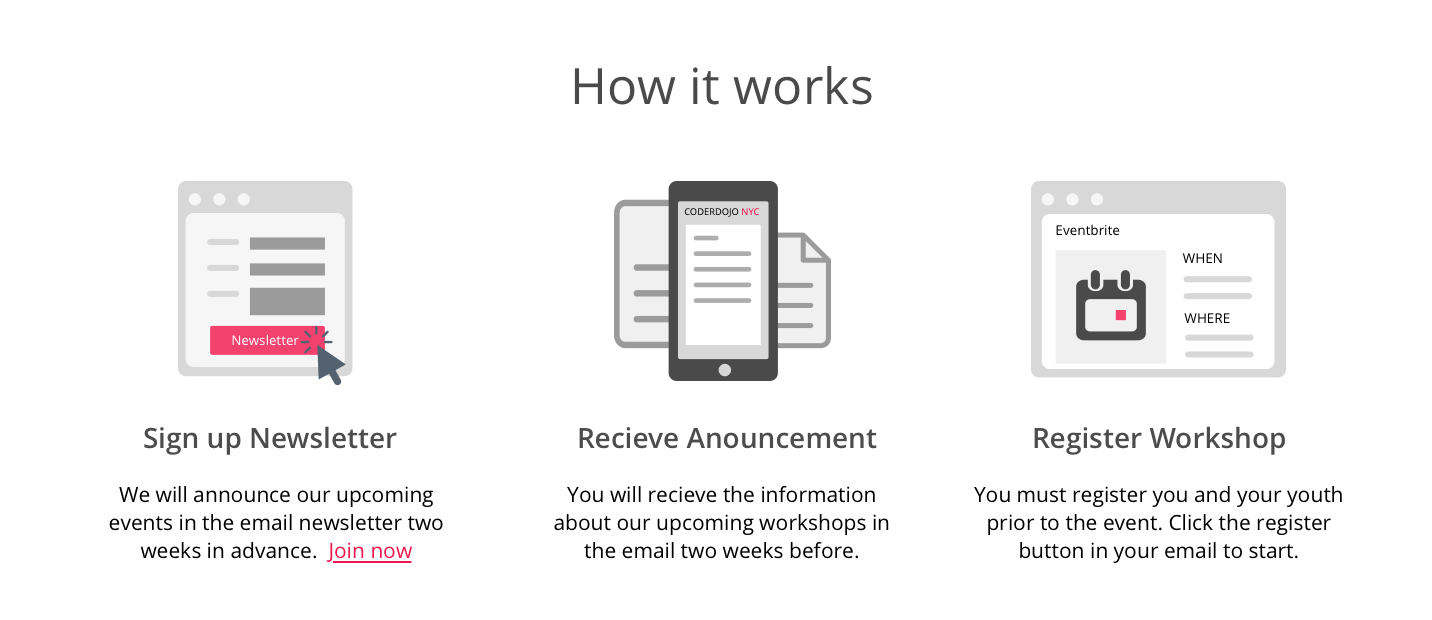
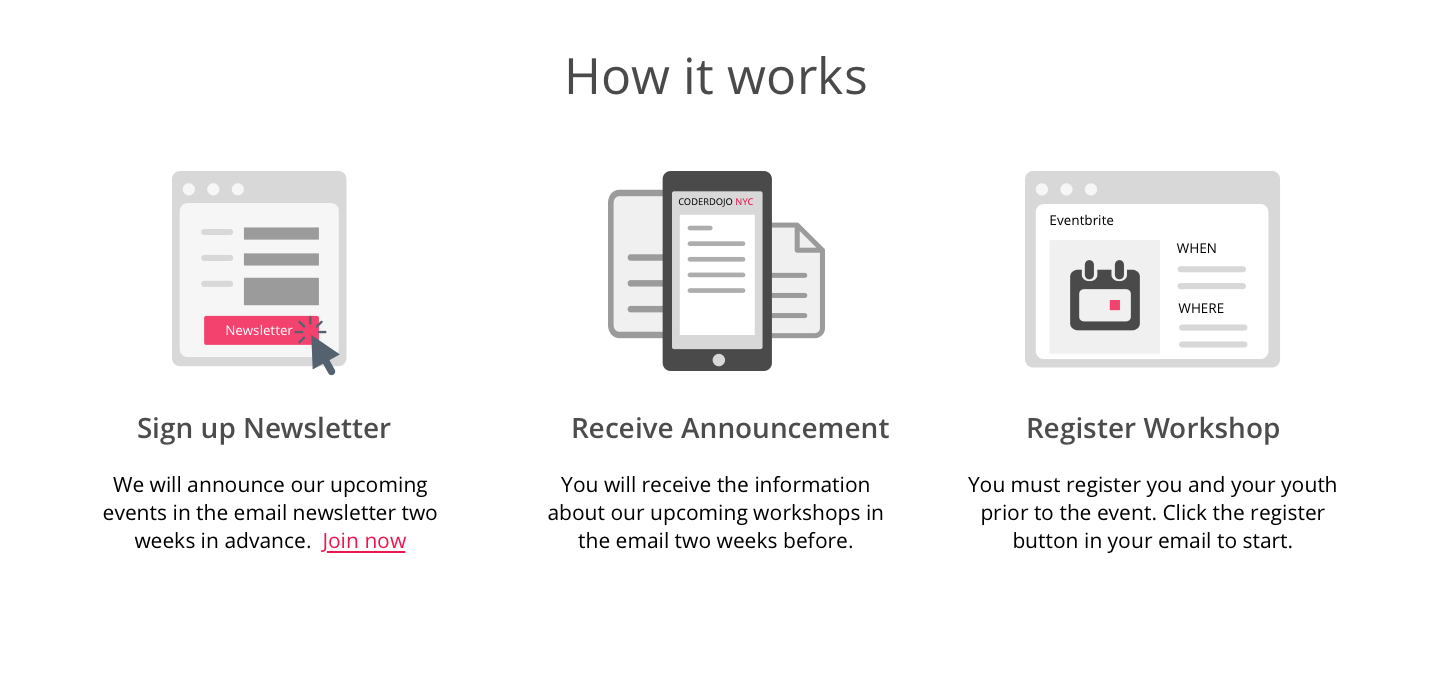
adding more pictures, small tweak in coderdojo

diff --git a/coderdojo.html b/coderdojo.html
@@ -42,7 +42,7 @@
 			<div class="container">
 				<div class="row">
 					<h1> CoderDojo NYC Website Redesign </h1>
-					<p class="desc"> CoderDojo NYC is non-profit organization hosting free Science, Technology, Engineering, Art and Math (STEAM) workshops for youth aged 7-17. I was thrilled, as a volunteer designer, to help them redesign their website. </p>
+					<p class="desc"> CoderDojo NYC is a non-profit organization hosting free Science, Technology, Engineering, Art and Math (STEAM) workshops for youth aged 7-17. I was thrilled, as a volunteer designer, to help them redesign their website. </p>
 
 
 					<div class="block">
@@ -51,7 +51,7 @@
 						
 							<ul>
 								<li>
-									In the original CoderDojo NYC website, the sign-up flow was convoluted and not clearly explained. Parents would spend time searching on the site to figure out how to sign up and then, upon failing, some would sign up as a volunteer and were confused why they were getting emails about volunteering. Confused, parents would then send emails to CoderDojo NYC asking questions or request to sign up for the next workshop. These emails became overwhelming for the organization to response.
+									In the original CoderDojo NYC website, the sign-up flow was convoluted and not clearly explained. Parents would spend time searching on the site to figure out how to sign up. Upon failing, some would sign up as a volunteer and were confused why they were getting emails about volunteering. Confused, parents would then send emails to CoderDojo NYC asking questions or request to sign up for the next workshop. These emails became overwhelming for the organization to respond.
 								</li>							
 								
 							</ul>
@@ -152,7 +152,7 @@
 
 							<div class="row">
 								<h3>Ideation</h3>
-								<p>After buttoned down the Information Architecture, I started sketching and wireframing. I started with quick and messy sketches to generate as many ideas as possible. After I got something I really liked, I started to sketch with more detail. 
+								<p>After buttoning down the Information Architecture, I started sketching and wireframing. I started with quick and messy sketches to generate as many ideas as possible. After I got something I really liked, I started to sketch with more detail. 
 
 								</p>
 								<div class="text-center">
@@ -173,7 +173,7 @@
 								
 								
 							</div>
-							<p>Then I consolidated the feedbacks from my client and finalized the visual design after a few more iterations.
+							<p>Then I consolidated the feedback from my client and finalized the visual design after a few more iterations.
 								</p>
 					</div>
 				</div>
@@ -181,7 +181,7 @@
 			<div class="theme">
 				<div class="container">
 					<div class="row">
-						<h2 class="section-header text-center">Sample Screens</h2>
+						<h2 class="section-header text-center">Final Design</h2>
 						
 						<div class="">
 							<img class="col-sm-6 col-xs-12 img-responsive" src="img/coderdojo/Home.png">
@@ -195,7 +195,7 @@
 					</div>
 				</div>
 			</div>
-			<div class="">
+			<div class="theme">
 				<div class="container">
 					<div class="row">
 						<h2 class="section-header text-center">Sample Illustrations</h2>
@@ -215,14 +215,6 @@
 					<div class="row">
 						<h2 class="section-header text-center">Discussion</h2>
 						<div class="row">
-							<h3>Better illustrated process</h3>
-							<p>I've tried a few different ways to show the process on the website, I ended up using a series of custom-made icons to visualize the steps they would take. Along with text explanation (both titles and microcopies), the process becomes very easy to understand. 
-							</p>
-							<div class="text-center">
-								<img class="img-responsive" src="img/coderdojo/how-it-works.png">
-							</div>
-						</div>	
-						<div class="row">
 							<h3>Page for each targeted user</h3>
 							<p>In the global navigation bar of the new design, I dedicated the first two spots for parents and volunteers. In each page, I've included all the information for each user group in their corresponding page. So once they get to the page, they are able to find everything they need to know.
 							</p>
@@ -230,7 +222,16 @@
 								<img class="img-responsive" src="img/coderdojo/Navbar.png">
 							</div>
 							
-						</div>				
+						</div>		
+						<div class="row">
+							<h3>Better illustrated process</h3>
+							<p>I've tried a few different ways to show the process on the website. I ended up using a series of custom-made icons to visualize the steps they would take. Along with text explanation (both titles and microcopy), the process becomes very easy to understand. 
+							</p>
+							<div class="text-center">
+								<img class="img-responsive" src="img/coderdojo/how-it-works.png">
+							</div>
+						</div>	
+								
 						<div class="row">
 							<h3>Adding FAQs to the Contact Us page</h3>
 							<p> The stakeholders had expressed to me multiple times that people will email and ask the same questions over and over again. I decided to add a list of such questions on top of the contact form. That is, the user needs to go through this list of questions before they can submit a question to the organization. However, I couldn't test and verify this design decision just yet. Once the site is published, we can then monitor the number of emails we got and I can tweak the design if needed.

diff --git a/index.html b/index.html
@@ -53,31 +53,43 @@
       
           <div class="row">
             <div class="col-md-4 col-sm-6 col-xs-12">
-              <div class="preview proj-1">
-                <a href="coderdojo.html"><img src="img/coderdojo.png" class="" alt="CoderDojo Website Redesign"></a>            
-              </div>
+              <ul class="preview proj-1">
+                <li><a href="coderdojo.html"><img src="img/coderdojo.png" class="" alt="CoderDojo Website Redesign"></a> </li>           
+              </ul>
             </div>
 
             <div class="col-md-8 col-sm-6 col-xs-12">
-              <div class="preview proj-2">
-                <a href="dashboard.html"><img src="img/email-dash.png" class="" alt="Email Dashboard"></a>                    
-              </div>  
+              <ul class="preview proj-2">
+                <li><a href="dashboard.html"><img src="img/email-dash.png" class="" alt="Email Dashboard"></a> </li>                  
+              </ul>  
             </div>
           </div>
           
           <div class="row">
-            <div class="col-md-8 col-sm-6 col-xs-12">
-              <div class="preview proj-3">
-                <a href="#">Coming Soon</a> 
-              </div>  
+            <div class="col-md-6 col-sm-6 col-xs-12">
+              <ul class="preview proj-3">
+                <li><a href="#"><img src="img/email-editor-mock.jpg" class="" alt="Email Editor"></a></li>
+              </ul>  
             </div>
 
-            <div class="col-md-4 col-sm-6 col-xs-12">
-              <div class="preview proj-4">
-                <a href="illustration.html"><img src="img/illustration.png" class="" alt="Various Illustrations and Visual Design"></a>       
-              </div>  
+            <div class="col-md-6 col-sm-6 col-xs-12">
+              <ul class="preview proj-4">
+                <li><a href="illustration.html"><img src="img/illustration.png" class="" alt="Various Illustrations and Visual Design"></a></li>      
+              </ul>  
             </div>
           </div>
+          <!-- 
+          <div class="row">
+              <div class="col-md-8 col-sm-6 col-xs-12">
+                <ul class="preview proj-5">
+                  <li><a href="#"><img src="img/dev.png" class="" alt="Email Editor"></a></li>               
+                </ul>  
+              </div>
+              <div class="col-md-4 col-sm-6 col-xs-12">
+                <ul class="preview proj-6">
+                      <li> <a href="#"><img src="img/twinlist-cover.png" class="" alt="List Comparison Visualization"></a></li>
+                </ul>
+              </div>
 
 
 
@@ -87,7 +99,9 @@
               </p>
               <a class="CTA text-center" href="mailto:ranliudesign@gmail.com?subject=I'd like to see your full portfolio">Request My Full Portfolio</a>
             </div>
-
+          -->
+            
+          </div>
 
           </div>
         </div>
@@ -98,10 +112,10 @@
   <div class="about gray">
     <div class="container">
        <h2 class="section-header text-center">About</h2>
-      <div class="text-center col-md-6 col-sm-4 hidden-xs">
+      <div class="text-center col-md-6 hidden-sm">
             <img class="profile-pic img-responsive" src="img/ran.png">
           </div>
-          <div class="self-intro col-md-6 col-sm-8 col-xs-12">          
+          <div class="self-intro col-md-6 col-sm-12">          
                 <p class="greeting">
                   Designer, Coder and Illustrator
                 </p>

diff --git a/css/home.css b/css/home.css
@@ -73,16 +73,27 @@ h1 {
 .preview {
 	overflow: hidden;
 	border-radius: 3px;
-	margin: 4px;
+	margin: 14px 0;
 	text-align: center;
+	list-style: none;
+	padding-left: 0;
+	height: 300px;
 }
 
 .preview img {
 	height: 300px;
-	
+	-webkit-transform: scale(1);
+	transform: scale(1);
+	-webkit-transition: .2s ease-in-out;
+	transition: .2s ease-in-out;
+}
+
+.preview img:hover {
+	-webkit-transform: scale(1.1);
+	transform: scale(1.1);
 }
 .proj-1 {
-	background-color: #F1E3BE;
+	background-color: #EAEAEA;
 }
 .proj-2 {
 	background-color: #C9E9E6;
@@ -90,13 +101,23 @@ h1 {
 .proj-3 {
 	background-color: #F6E6E6;
 }
-.proj-3 a{
+.proj-3 a,
+.proj-5 a,
+.proj-6 a{
 	display: block;
 	height: 300px;
 	line-height: 300px;
 }
 .proj-4 {
 	background-color: #4C4D4F;
+	color: white;
+}
+
+.proj-5 {
+	background-color: #E6EEF0;
+}
+.proj-6 {
+	background-color: #FFF9F0;
 }
 
 /* about
